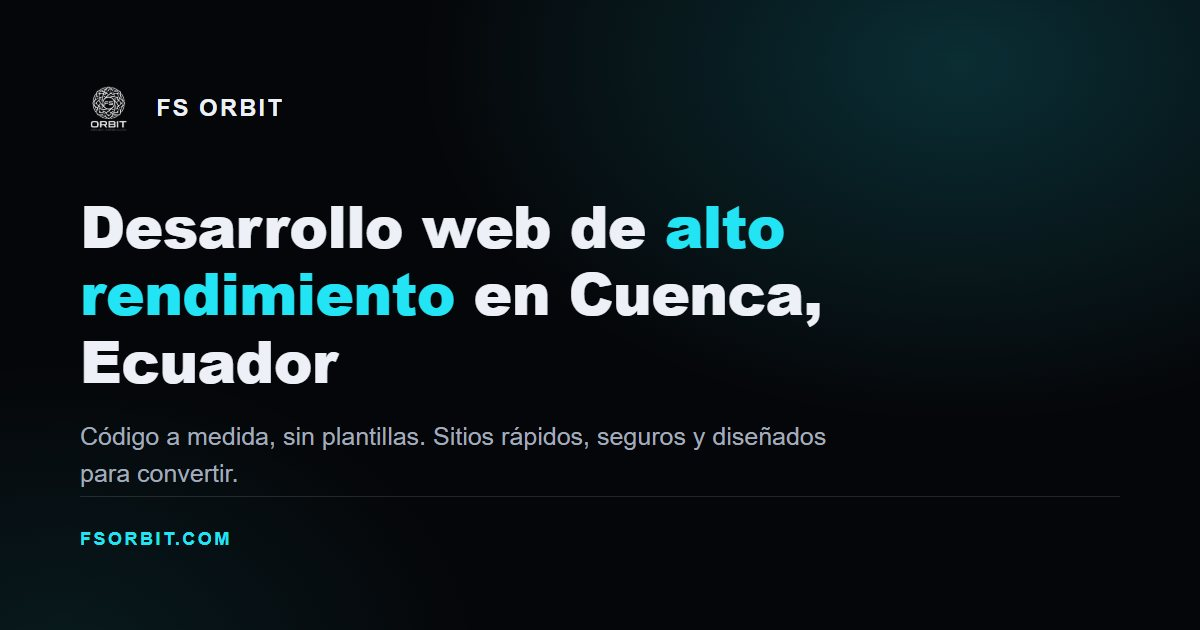
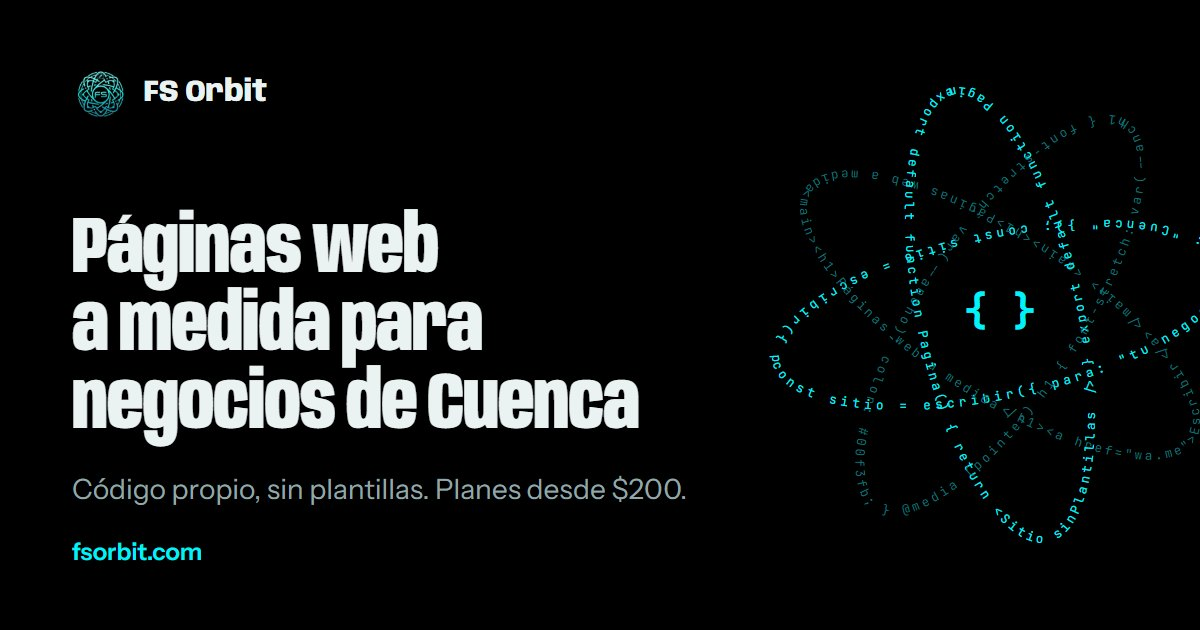
Imagen de Open Graph con el diseño nuevo

diff --git a/REDISENO.md b/REDISENO.md
@@ -50,7 +50,7 @@ Las 20 URLs anteriores conservan su dirección; no hizo falta ningún 301 nuevo.
 2. **Plazos típicos** por tipo de proyecto: Proceso solo dice que el plazo se da con la propuesta.
 3. **Condiciones de pago y propiedad del código**: el sitio dice que se acuerdan con cada cliente.
 4. **Métricas de clientes**: ningún caso muestra cifras porque no hay.
-5. **Imagen de Open Graph** (`public/assets/og-image.jpg`): sigue siendo la anterior, con otro titular. Hay que actualizar `scripts/generate-og-image.mjs` y regenerarla.
+5. **Imagen de Open Graph**: regenerada con el diseño nuevo (`node scripts/generate-og-image.mjs`).
 6. **Política de privacidad**: se corrigieron dos párrafos (ya no hay preloader ni vista previa en iframe; se describe el armador de mensajes) y la fecha. Conviene que la leas.
 7. **Precios de servicios sin plan** (UI/UX, mantenimiento, rediseño): figuran como "se cotiza".
 8. `AUDITORIA.md` y `legacy-static/` describen el sitio anterior; no se tocaron.
